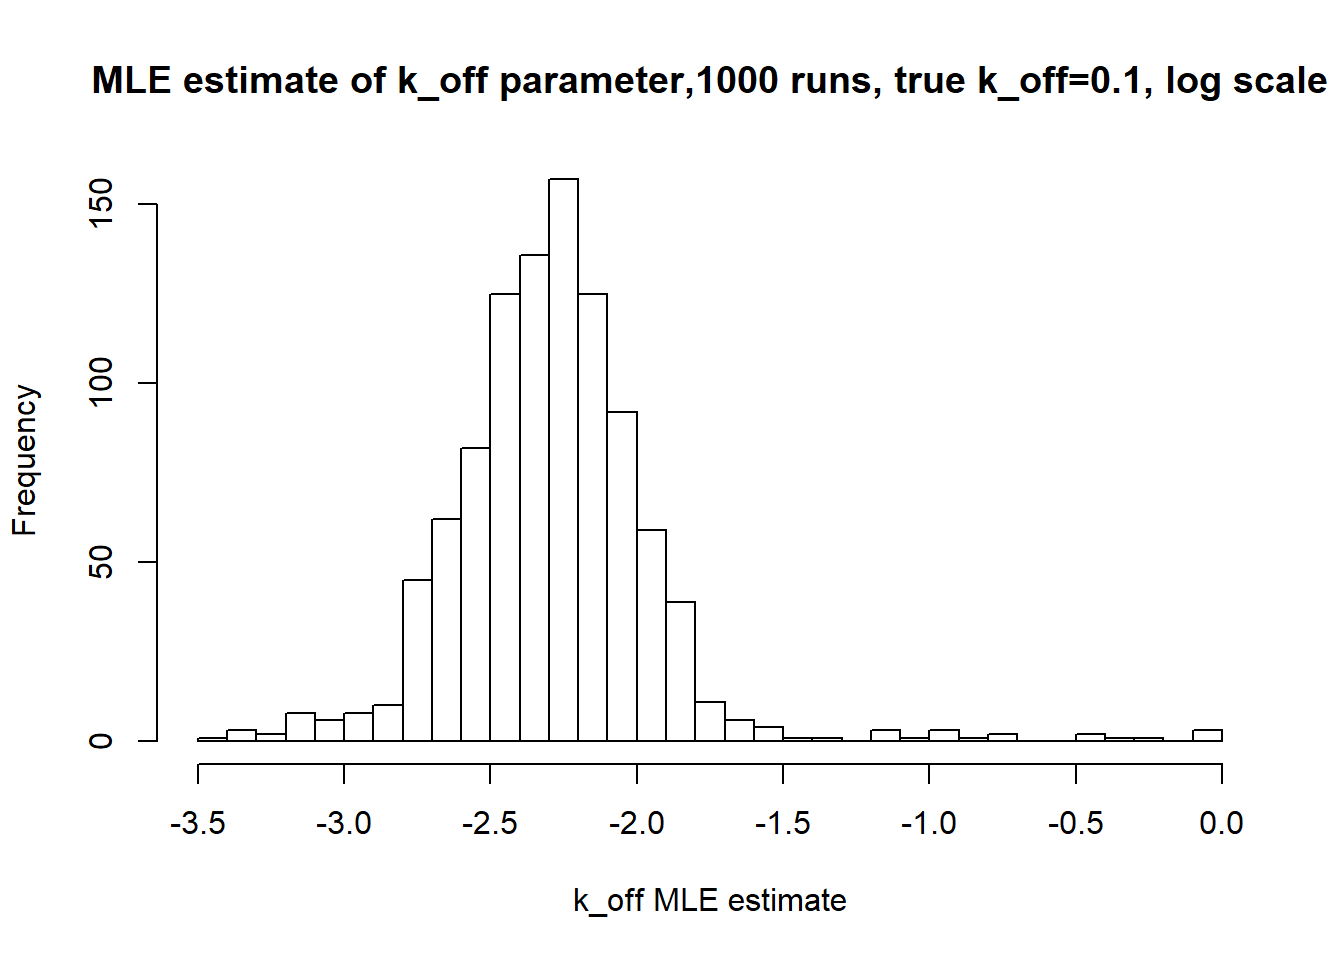
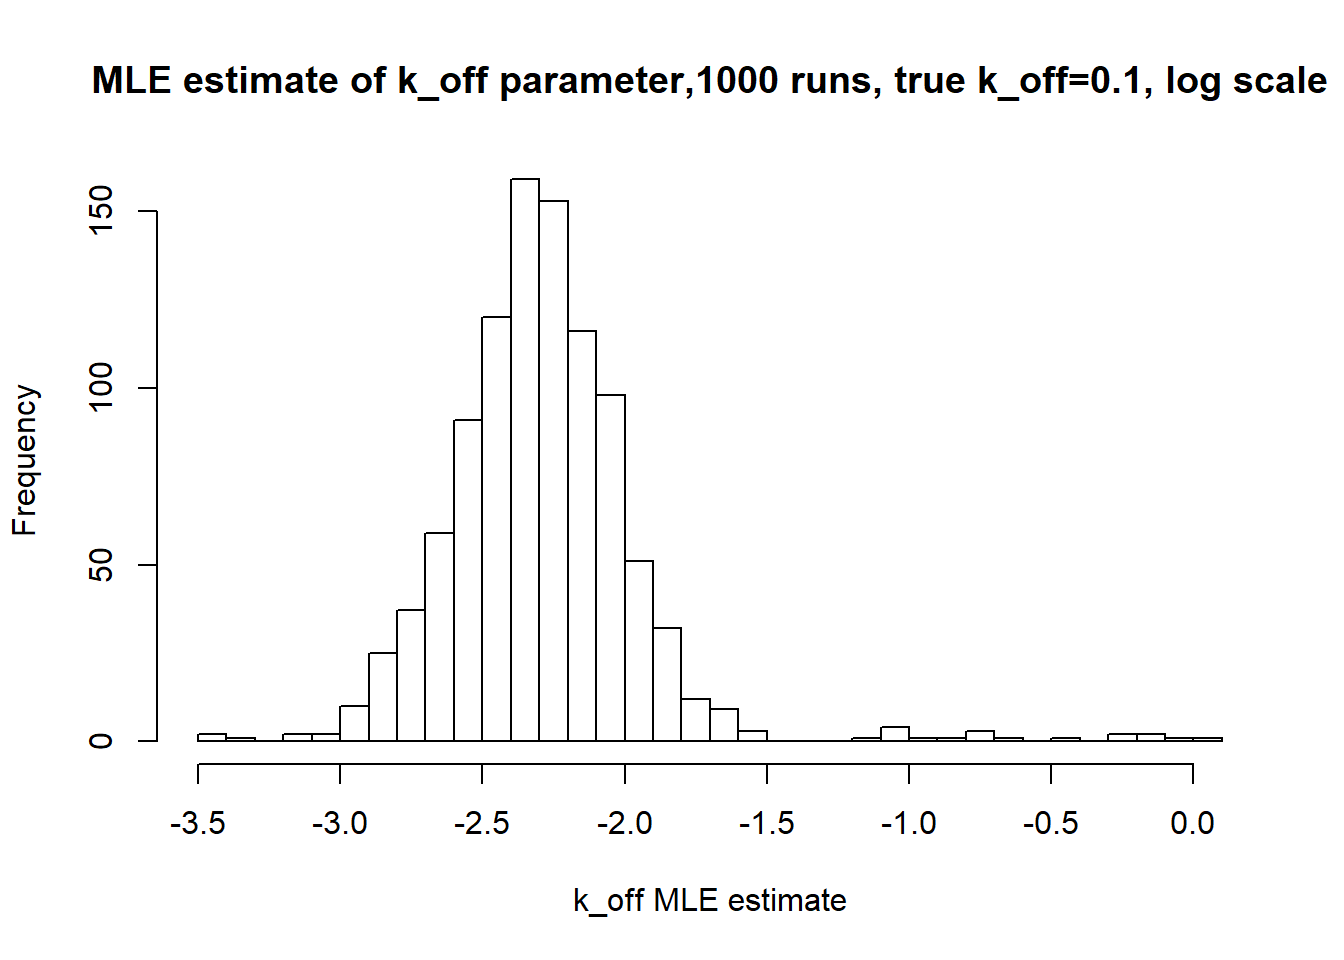
Build site.

diff --git a/docs/MLE_estimation_with_noise_parameter.html b/docs/MLE_estimation_with_noise_parameter.html
@@ -467,10 +467,10 @@ analysis/MLE_with_si.py
 <div class="panel panel-default">
 <div class="panel-heading">
 <p class="panel-title">
-<a data-toggle="collapse" data-parent="#workflowr-checks" href="#strongRepositoryversionstrongahrefhttpsgithubcomMargareth2407ThesissingleRNAtreeb825f88168565e96829f50907dd5163ba465cd86targetblankb825f88a"> <span class="glyphicon glyphicon-ok text-success" aria-hidden="true"></span> <strong>Repository version:</strong> <a href="https://github.com/Margareth2407/Thesis_single_RNA/tree/b825f88168565e96829f50907dd5163ba465cd86" target="_blank">b825f88</a> </a>
+<a data-toggle="collapse" data-parent="#workflowr-checks" href="#strongRepositoryversionstrongahrefhttpsgithubcomMargareth2407ThesissingleRNAtreeb7583a5429ac283a9f1063f0cd881643cdb29016targetblankb7583a5a"> <span class="glyphicon glyphicon-ok text-success" aria-hidden="true"></span> <strong>Repository version:</strong> <a href="https://github.com/Margareth2407/Thesis_single_RNA/tree/b7583a5429ac283a9f1063f0cd881643cdb29016" target="_blank">b7583a5</a> </a>
 </p>
 </div>
[2 lines of base64/hex data omitted]
 <div class="panel-body">
 <p>
 Great! You are using Git for version control. Tracking code development and connecting the code version to the results is critical for reproducibility. The version displayed above was the version of the Git repository at the time these results were generated. <br><br> Note that you need to be careful to ensure that all relevant files for the analysis have been committed to Git prior to generating the results (you can use <code>wflow_publish</code> or <code>wflow_git_commit</code>). workflowr only checks the R Markdown file, but you know if there are other scripts or data files that it depends on. Below is the status of the Git repository when the results were generated:
@@ -525,24 +525,24 @@ n_cells=as.integer(100)
 x=generate_data(k_on,k_off,kr,n_cells)</code></pre>
 <pre class="r"><code>est=MaximumLikelihood(x)
 est</code></pre>
-<pre><code>[1]   0.09774289   0.09789375 100.14870874</code></pre>
+<pre><code>[1]   0.1019087   0.1066323 101.4788020</code></pre>
 <p>Then, we implement MLE calculation with <span class="math inline">\(s_i\)</span> parameter included.</p>
 <pre class="r"><code>source_python(&quot;C:/Users/Moonkin/Documents/GitHub/Thesis_single_RNA/analysis/MLE_with_si.py&quot;)</code></pre>
 <p>With <span class="math inline">\(s_i\)</span>=1 we should receive the same estimators as without <span class="math inline">\(s_i\)</span></p>
 <pre class="r"><code>si=matrix(1, nrow = 100, ncol = 1)
 est=MaximumLikelihood_with_si(x,si)
 est</code></pre>
-<pre><code>[1]   0.09774289   0.09789375 100.14870874</code></pre>
+<pre><code>[1]   0.1019087   0.1066323 101.4788020</code></pre>
 <p>With <span class="math inline">\(s_i\)</span>=2, our <span class="math inline">\(k_r\)</span> estimate drops twice, while <span class="math inline">\(k_{on}\)</span> and <span class="math inline">\(k_{off}\)</span> are not really affected by this change.</p>
 <pre class="r"><code>si=matrix(2, nrow = 100, ncol = 1)
 est=MaximumLikelihood_with_si(x,si)
 est</code></pre>
-<pre><code>[1]  0.09799543  0.09834182 50.12201773</code></pre>
+<pre><code>[1]  0.1019179  0.1066442 50.7398082</code></pre>
 <p>We also try using different <span class="math inline">\(s_i\)</span> values as this is what we will see in real data:</p>
 <pre class="r"><code>si=matrix(1:5, nrow = 100, ncol = 1)
 est=MaximumLikelihood_with_si(x,si)
 est</code></pre>
-<pre><code>[1]   0.2072661   0.8161657 107.8370838</code></pre>
+<pre><code>[1]   0.1870296   0.6757659 109.8943303</code></pre>
 </div>
 <div id="multiple-dataset-results" class="section level1">
 <h1>Multiple dataset results</h1>
@@ -551,16 +551,16 @@ est</code></pre>
 <p><img src="figure/MLE_estimation_with_noise_parameter.Rmd/unnamed-chunk-8-1.png" width="672" style="display: block; margin: auto;" /></p>
 <pre><code>[1] &quot;true k_on is 0.1; k_on mean 0.101 k_on median 0.099&quot;</code></pre>
 <p><img src="figure/MLE_estimation_with_noise_parameter.Rmd/unnamed-chunk-8-2.png" width="672" style="display: block; margin: auto;" /></p>
-<pre><code>[1] &quot;true k_off is 0.1; k_off mean 0.103 k_off median 0.1&quot;</code></pre>
+<pre><code>[1] &quot;true k_off is 0.1; k_off mean 0.102 k_off median 0.098&quot;</code></pre>
 <p><img src="figure/MLE_estimation_with_noise_parameter.Rmd/unnamed-chunk-8-3.png" width="672" style="display: block; margin: auto;" /></p>
-<pre><code>[1] &quot;true k_r is 100; k_r mean 99.964 k_r median 99.96&quot;</code></pre>
+<pre><code>[1] &quot;true k_r is 100; k_r mean 99.984 k_r median 99.924&quot;</code></pre>
 <p>MLE calculations with <span class="math inline">\(s_i\)</span>=2 for all cells:</p>
 <p><img src="figure/MLE_estimation_with_noise_parameter.Rmd/unnamed-chunk-9-1.png" width="672" style="display: block; margin: auto;" /></p>
-<pre><code>[1] &quot;true k_on is 0.1; k_on mean 0.103 k_on median 0.1&quot;</code></pre>
+<pre><code>[1] &quot;true k_on is 0.1; k_on mean 0.103 k_on median 0.101&quot;</code></pre>
 <p><img src="figure/MLE_estimation_with_noise_parameter.Rmd/unnamed-chunk-9-2.png" width="672" style="display: block; margin: auto;" /></p>
-<pre><code>[1] &quot;true k_off is 0.1; k_off mean 0.111 k_off median 0.101&quot;</code></pre>
+<pre><code>[1] &quot;true k_off is 0.1; k_off mean 0.111 k_off median 0.1&quot;</code></pre>
 <p><img src="figure/MLE_estimation_with_noise_parameter.Rmd/unnamed-chunk-9-3.png" width="672" style="display: block; margin: auto;" /></p>
-<pre><code>[1] &quot;true k_r is 100; k_r mean 50.652 k_r median 50.006&quot;</code></pre>
+<pre><code>[1] &quot;true k_r is 100; k_r mean 50.244 k_r median 50.026&quot;</code></pre>
 </div>
 <div id="real-data" class="section level1">
 <h1>Real data</h1>
